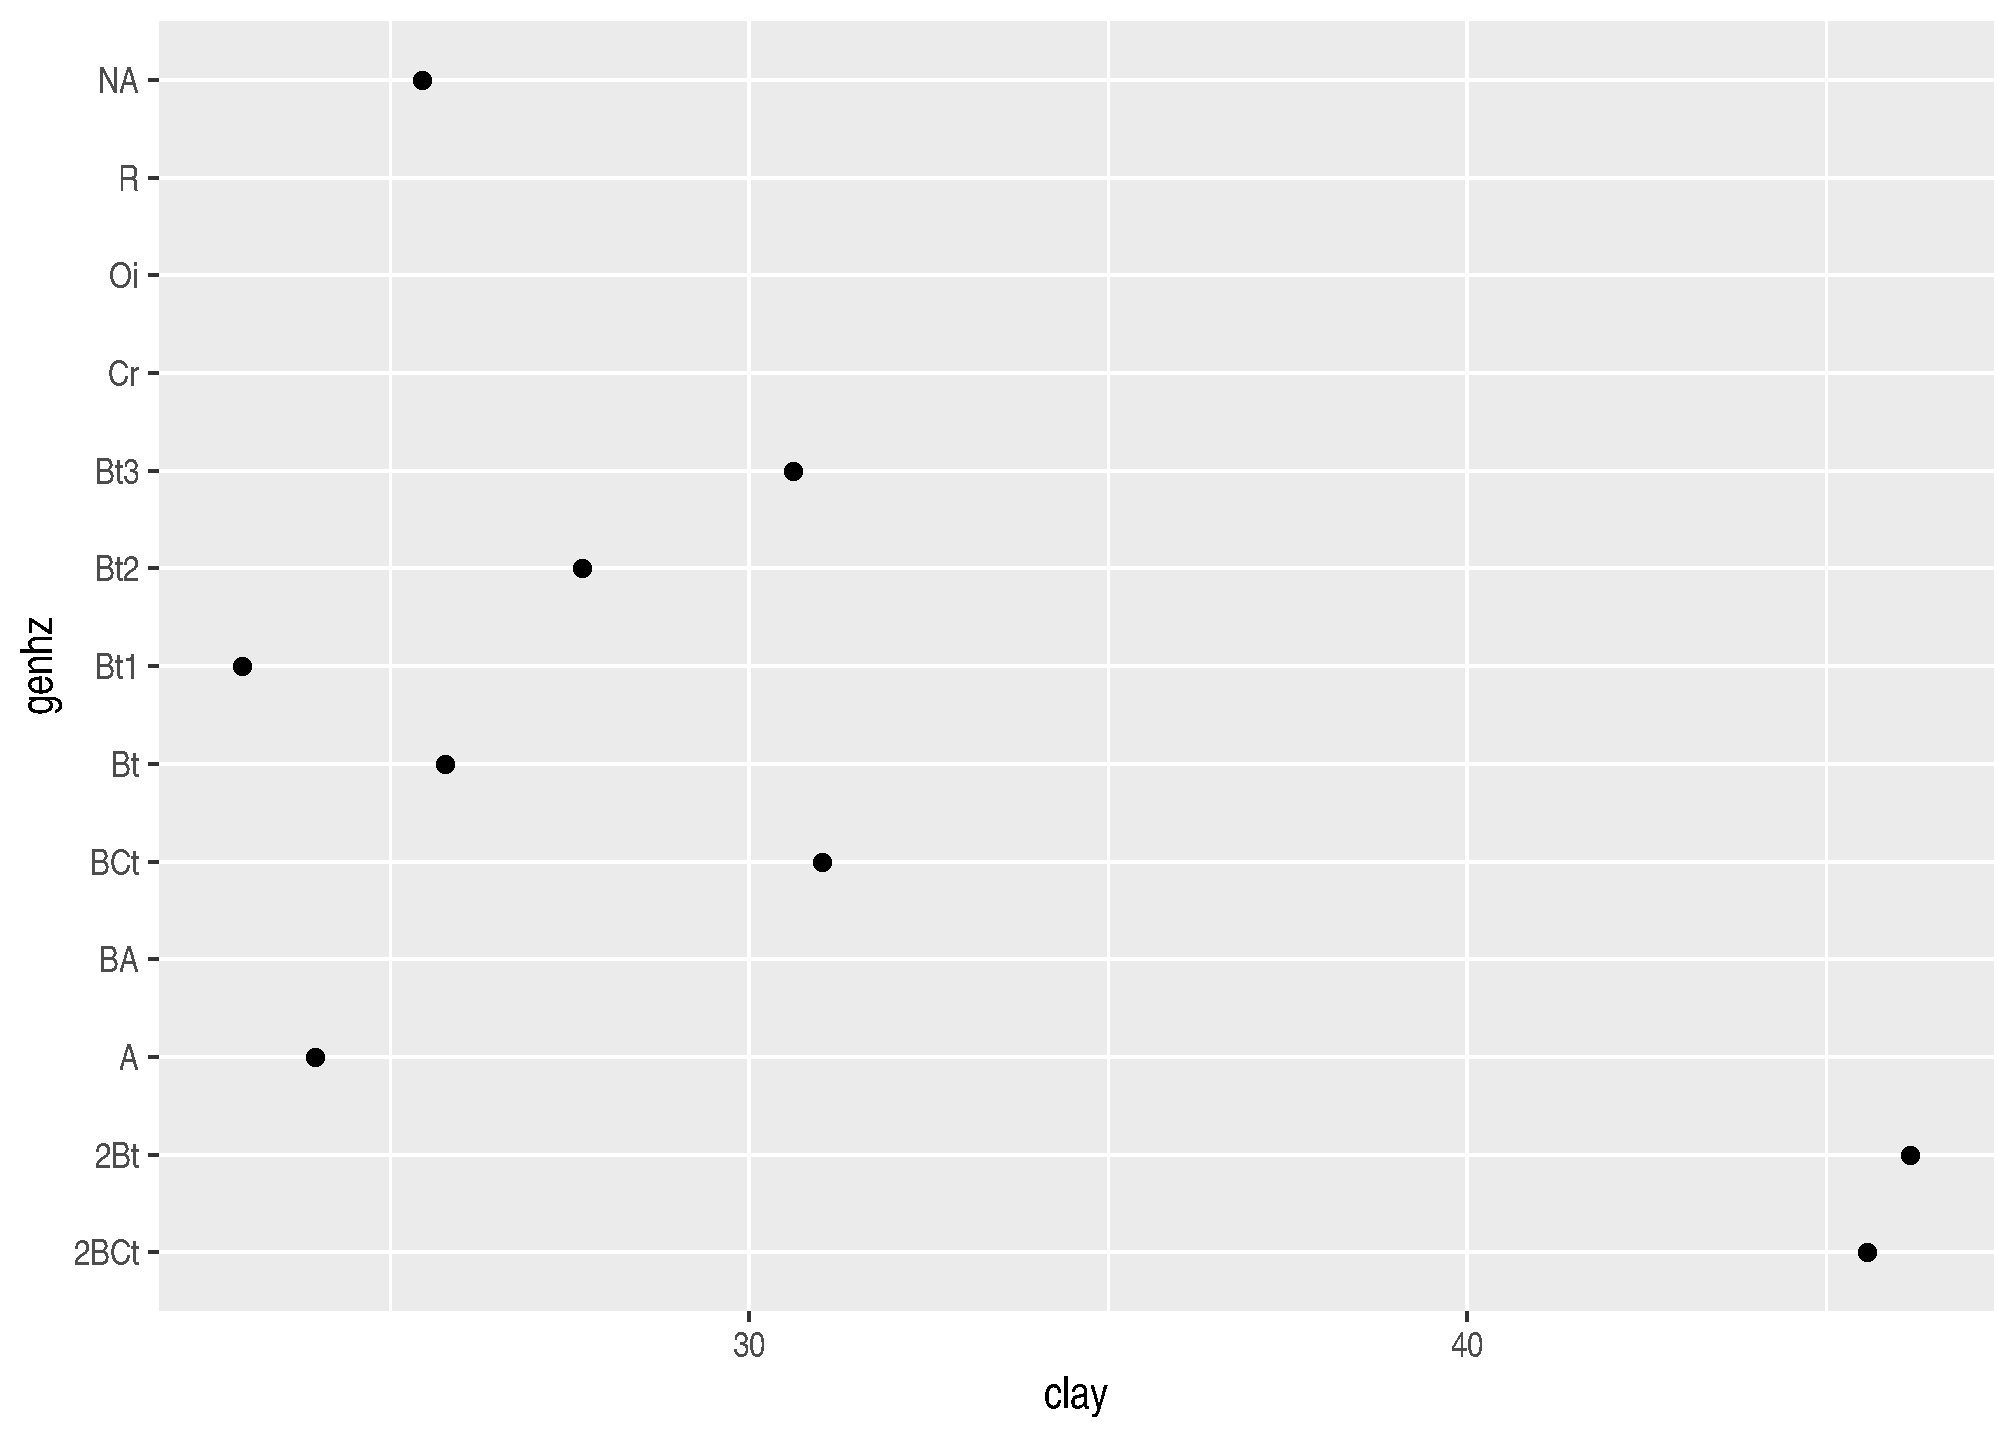
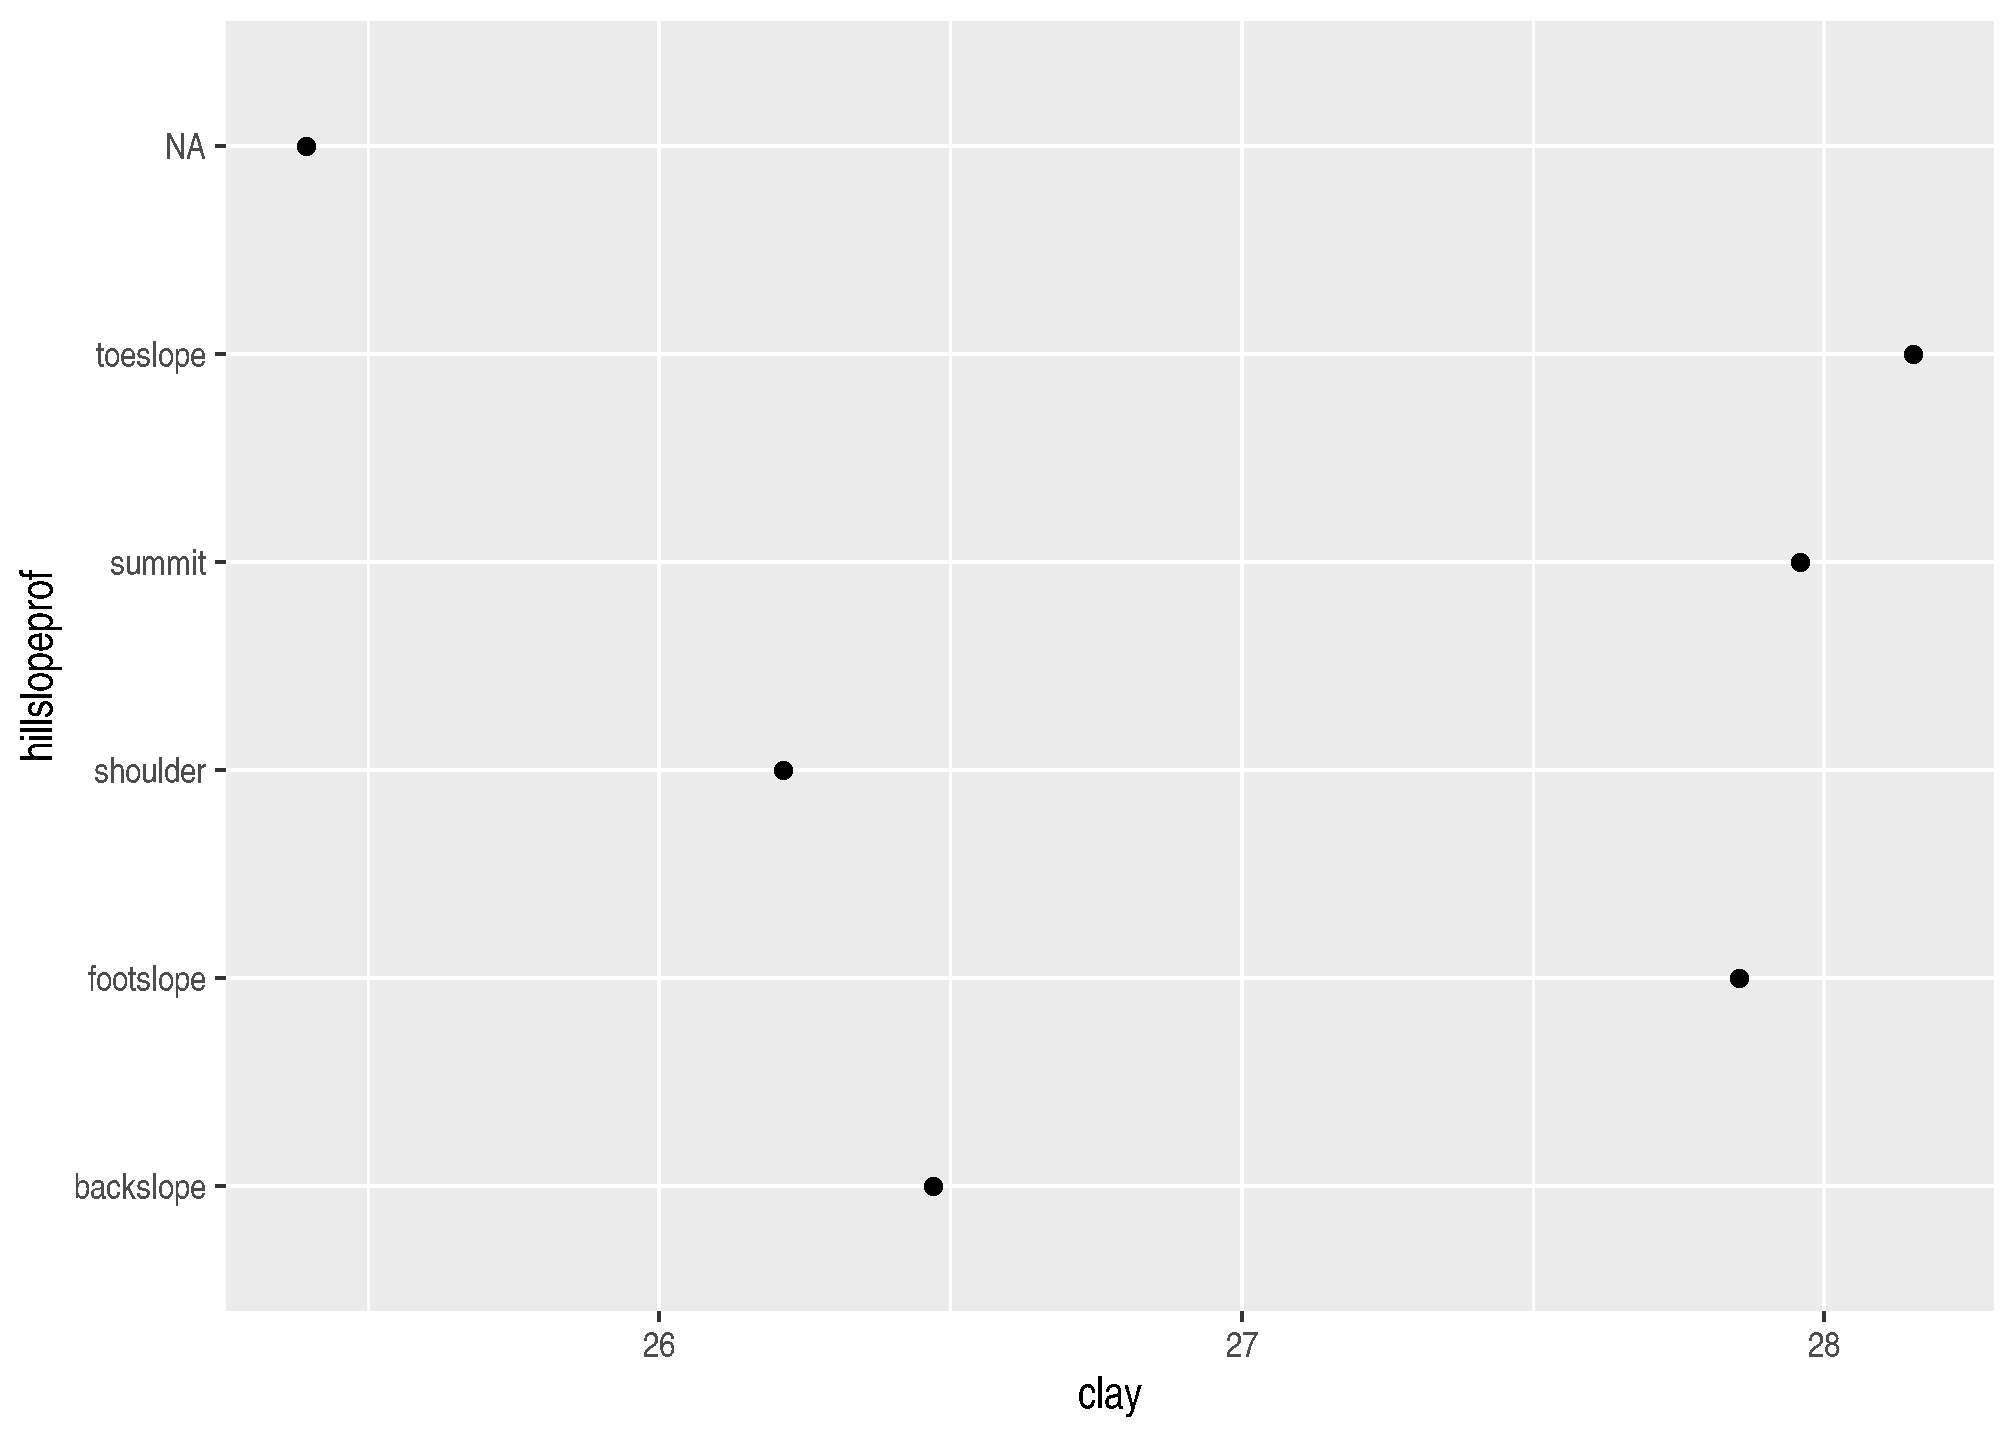
stat_depth_weighted: reverse data/mapping arg order

diff --git a/README.md b/README.md
@@ -120,8 +120,14 @@ ggplot(loafercreek, aes(clay, hillslopeprof)) +
 
 ``` r
 # use site-level columns for profile-specific intervals (e.g. PSCS)
-ggplot(loafercreek, aes(clay, genhz)) +
-  stat_depth_weighted(na.rm = TRUE, from = psctopdepth, to = pscbotdepth)
+ggplot() +
+  stat_depth_weighted(
+    loafercreek,
+    aes(clay, hillslopeprof),
+    na.rm = TRUE,
+    from = psctopdepth,
+    to = pscbotdepth
+  )
 ```
 
 <img src="man/figures/README-stat-depth-weighted-spc6-1.png" width="100%" />
